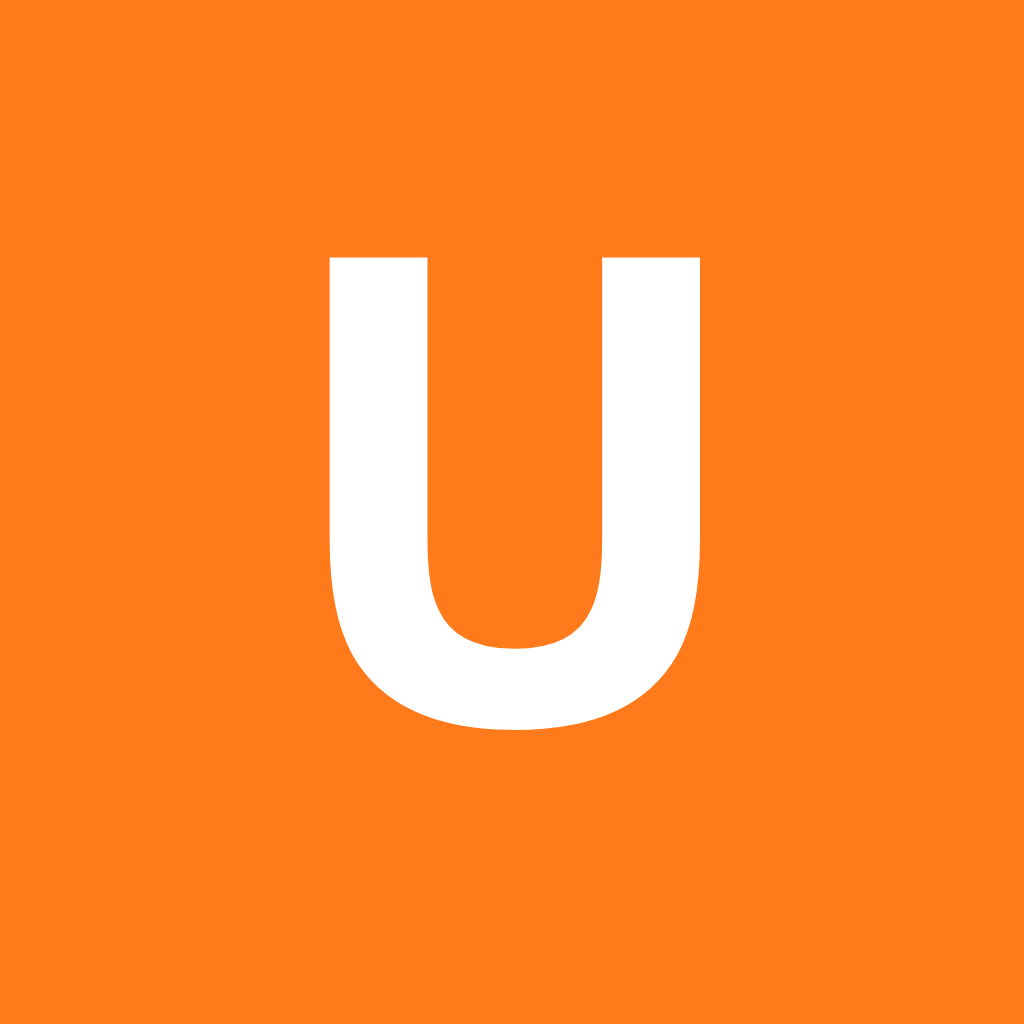
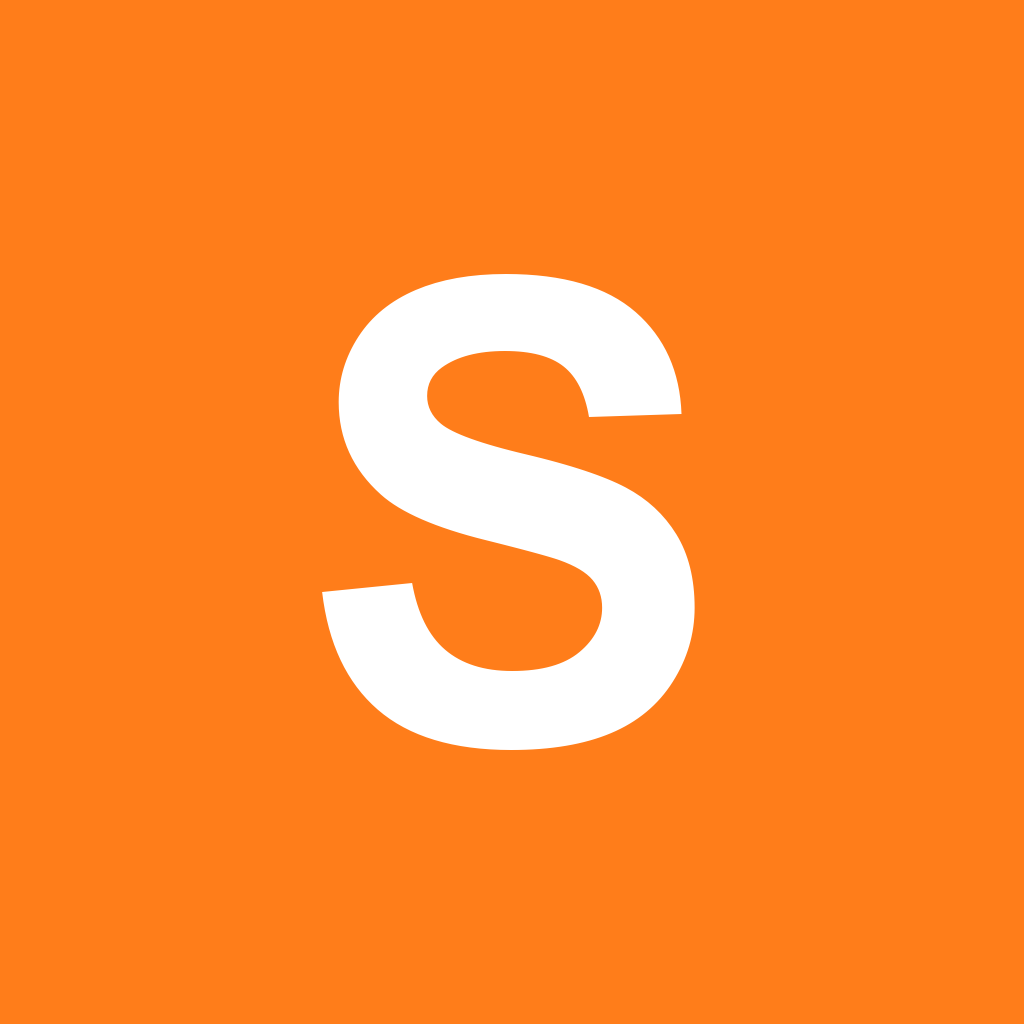
Rebrand user-facing UI to Solina CRM
Product name, page titles, login/signup, public legal pages and the
logo mark now say Solina CRM / S. Technical identifiers (X-UltraCRM-*
headers, store script global, plugin, user agents) are unchanged so
existing integrations keep working. New Meta app icon.

Changed region(s): [[0.3125, 0.25, 0.6875, 0.6875], [0.375, 0.6562, 0.6562, 0.75]]

diff --git a/src/components/crm-sync/CrmConnectionsScreen.tsx b/src/components/crm-sync/CrmConnectionsScreen.tsx
@@ -165,8 +165,8 @@ function ConnectionWizard({ conn, step, go, onChanged, dt }: { conn: Conn; step:
                 {(settings.directions.status === "out" || settings.directions.status === "both") && <div className="mt-2 space-y-1"><p className="text-xs text-muted">{t("סטטוס שלנו → ערך במערכת החיצונית (רק מה שממופה נשלח):", "Our status → external value (only mapped ones are sent):")}</p>{LOCAL_STATUSES.map(([k, l]) => <div key={k} className="flex items-center gap-2"><span className="min-w-24 text-xs">{l}</span><Input aria-label={l} value={settings.statusOutMap[k] ?? ""} onChange={(e) => { const m = { ...settings.statusOutMap }; if (e.target.value) m[k] = e.target.value; else delete m[k]; setSettings({ ...settings, statusOutMap: m }); }} className="h-8 w-48" ltr /></div>)}</div>}
               </section>
               <section><h3 className="font-semibold mb-1">{t("מקור אמת", "Source of truth")}</h3>
-                <ul className="text-xs text-muted list-disc ps-5 space-y-0.5"><li>{t("פרטי קשר ונציג מטפל: ה-CRM החיצוני.", "Contact details & handling agent: the external CRM.")}</li><li>{t("שיחות, הודעות ותוצאותיהן: UltraCRM.", "Calls, messages and their results: UltraCRM.")}</li><li>{t("סטטוסים ופולואפים: לפי המיפוי והכיוון שלמעלה.", "Statuses & follow-ups: per the mapping and direction above.")}</li><li>{t("חסימה: נאכפת כאן מיד ונשלחת החוצה; עדכון חיצוני רגיל לא מסיר אותה.", "Blocks: enforced here at once and sent out; an ordinary external update never lifts one.")}</li></ul>
-                <div className="flex flex-wrap gap-3 mt-2"><Select label={t("מי קובע שיוך", "Who decides assignment")} value={settings.ownerAuthority} onChange={(e) => setSettings({ ...settings, ownerAuthority: e.target.value as Settings["ownerAuthority"] })} className="w-56"><option value="external">{t("ה-CRM החיצוני", "The external CRM")}</option><option value="local">{t("UltraCRM", "UltraCRM")}</option></Select>
+                <ul className="text-xs text-muted list-disc ps-5 space-y-0.5"><li>{t("פרטי קשר ונציג מטפל: ה-CRM החיצוני.", "Contact details & handling agent: the external CRM.")}</li><li>{t("שיחות, הודעות ותוצאותיהן: Solina CRM.", "Calls, messages and their results: Solina CRM.")}</li><li>{t("סטטוסים ופולואפים: לפי המיפוי והכיוון שלמעלה.", "Statuses & follow-ups: per the mapping and direction above.")}</li><li>{t("חסימה: נאכפת כאן מיד ונשלחת החוצה; עדכון חיצוני רגיל לא מסיר אותה.", "Blocks: enforced here at once and sent out; an ordinary external update never lifts one.")}</li></ul>
+                <div className="flex flex-wrap gap-3 mt-2"><Select label={t("מי קובע שיוך", "Who decides assignment")} value={settings.ownerAuthority} onChange={(e) => setSettings({ ...settings, ownerAuthority: e.target.value as Settings["ownerAuthority"] })} className="w-56"><option value="external">{t("ה-CRM החיצוני", "The external CRM")}</option><option value="local">{t("Solina CRM", "Solina CRM")}</option></Select>
                   <Select label={t("רעננות נדרשת לחיוג אוטומטי", "Freshness required for auto-dialing")} value={String(settings.freshnessMinutes)} onChange={(e) => setSettings({ ...settings, freshnessMinutes: Number(e.target.value) })} className="w-56">{[15, 60, 240, 1440].map((m) => <option key={m} value={m}>{m < 60 ? t(`${m} דקות`, `${m} min`) : t(`${m / 60} שעות`, `${m / 60} h`)}</option>)}</Select>
                   <Select label={t("מחיקה במערכת החיצונית", "Deleted externally")} value={settings.deletionPolicy} onChange={(e) => setSettings({ ...settings, deletionPolicy: e.target.value as Settings["deletionPolicy"] })} className="w-64"><option value="stop_activity">{t("לבטל פעילות עתידית (ההיסטוריה נשמרת)", "Stop future activity (history kept)")}</option><option value="close_lead">{t("גם לסגור את הליד כאבוד", "Also close the lead as lost")}</option></Select></div>
               </section>

diff --git a/src/components/carts/carts-screen.tsx b/src/components/carts/carts-screen.tsx
@@ -89,7 +89,7 @@ function StoreSetup({ store, onClose, onSaved, onDeleted }: { store: Store | nul
           {store.platform === "shopify" && <div className="wz-seg"><button disabled={Boolean(store.api)} className={shopifyMode === "manual" ? "active" : ""} onClick={() => setShopifyMode("manual")}>{t("חיבור ידני דרך Shopify", "Manual Shopify setup")}</button><button className={shopifyMode === "app" ? "active" : ""} onClick={() => setShopifyMode("app")}>{t("יש לי אפליקציה מותקנת", "I have an installed app")}</button></div>}
           {store.platform === "shopify" && shopifyMode === "app" && <ApiConnect store={store} onConnected={onSaved} />}
           {store.platform === "woocommerce" && <WooConnection storeId={store.id} siteHint={store.api?.target ?? (store.domain ? `https://${store.domain}` : "")} />}
-          {store.platform === "shopify" && <p className="wz-hint">{t("בחר מסלול אחד: רישום אירועים דרך אפליקציה מותקנת, או הגדרה ידנית. המעקב במסלול זה מתחיל בקופה (Checkout), לא בגלישה אנונימית בסל לפני הקופה. לא נדרש סקריפט בתבנית. אין כרגע התקנת OAuth בלחיצה אחת של UltraCRM; היא מחייבת אפליקציית Shopify מוגדרת והרשאות הפצה. מפתח החתימה של המסלול הידני שונה מסוד האפליקציה — אין לערבב ביניהם.", "Choose one route: subscriptions through an installed app, or manual configuration. This route tracks checkouts, not anonymous pre-checkout baskets. No theme script is required. UltraCRM one-click OAuth installation is not configured; it requires a configured Shopify app and distribution permissions. Manual webhook secrets and app secrets differ; do not mix them.")}</p>}
+          {store.platform === "shopify" && <p className="wz-hint">{t("בחר מסלול אחד: רישום אירועים דרך אפליקציה מותקנת, או הגדרה ידנית. המעקב במסלול זה מתחיל בקופה (Checkout), לא בגלישה אנונימית בסל לפני הקופה. לא נדרש סקריפט בתבנית. אין כרגע התקנת OAuth בלחיצה אחת של Solina CRM; היא מחייבת אפליקציית Shopify מוגדרת והרשאות הפצה. מפתח החתימה של המסלול הידני שונה מסוד האפליקציה — אין לערבב ביניהם.", "Choose one route: subscriptions through an installed app, or manual configuration. This route tracks checkouts, not anonymous pre-checkout baskets. No theme script is required. Solina CRM one-click OAuth installation is not configured; it requires a configured Shopify app and distribution permissions. Manual webhook secrets and app secrets differ; do not mix them.")}</p>}
           {store.platform !== "shopify" && <StoreInstructions id={store.id} platform={store.platform} serverEventsUrl={store.serverEventsUrl} secret={store.webhookSecret} />}
           <ol className="carts-steps">
             {store.platform === "shopify" && shopifyMode === "manual" && !store.api && <li><strong>{t("חיבור Shopify ידני", "Manual Shopify connection")}</strong> {t("– Settings → Notifications → Webhooks → Create webhook, פורמט JSON וגרסה 2026-10, לכל אחד מהאירועים:", "– Settings → Notifications → Webhooks → Create webhook, JSON format and version 2026-10, for each of the events:")} <b>Checkout creation</b>, <b>Checkout update</b>, <b>Order payment</b>, {t("עם הכתובת:", "with the URL:")}<Code value={store.webhookUrl!} testid="store-webhook-url" />

diff --git a/src/server/services/integrations.ts b/src/server/services/integrations.ts
@@ -97,7 +97,7 @@ export async function authenticateIntegrationKey(req: Request, scope: Integratio
   if (used > RATE_LIMIT_PER_MINUTE) throw new ApiError("חריגה ממגבלת הקצב – נסו שוב בעוד דקה", 429, "rate_limited", { limit: RATE_LIMIT_PER_MINUTE, retryAfterSec: Math.max(1, 60 - Math.floor((Date.now() - new Date(rows[0].window_start).getTime()) / 1000)) });
   const conn = await db.crmConnection.findFirst({ where: { id: a.connectionId, businessId: a.business.id } });
   if (!conn) throw new ApiError("החיבור של המפתח לא נמצא", 403, "connection_missing");
-  if (conn.status === "disconnected") throw new ApiError("החיבור מנותק ב-UltraCRM – הנתונים לא נקלטים עד חיבור מחדש", 409, "connection_disconnected");
+  if (conn.status === "disconnected") throw new ApiError("החיבור מנותק ב-Solina CRM – הנתונים לא נקלטים עד חיבור מחדש", 409, "connection_disconnected");
   // Push integrations: any authenticated call is a heartbeat – "no changes lately" is not stale data (pre-dial freshness).
   if (conn.status === "active" && (!conn.lastSyncAt || Date.now() - conn.lastSyncAt.getTime() > 60_000)) await db.crmConnection.update({ where: { id: conn.id }, data: { lastSyncAt: new Date() } }).catch(() => undefined);
   return { ...a, connection: conn, rateLimit: { limit: RATE_LIMIT_PER_MINUTE, remaining: Math.max(0, RATE_LIMIT_PER_MINUTE - used) } };
@@ -200,6 +200,6 @@ export async function deliverDueWebhooks(businessId: string, deadline = Date.now
 
 /** Manual "send test" – a sample lead.created payload, sent now (not queued), result returned to the screen. */
 export async function sendTestWebhook(endpoint: WebhookEndpoint) {
-  const payload = { id: `test_${Date.now()}`, event: "test", occurredAt: new Date(), businessId: endpoint.businessId, source: "test", data: { message: "בדיקת חיבור מ-UltraCRM", contact: { id: "c_test", fullName: "ליד לדוגמה", phone: "+972501234567", email: "lead@example.com" } } };
+  const payload = { id: `test_${Date.now()}`, event: "test", occurredAt: new Date(), businessId: endpoint.businessId, source: "test", data: { message: "בדיקת חיבור מ-Solina CRM", contact: { id: "c_test", fullName: "ליד לדוגמה", phone: "+972501234567", email: "lead@example.com" } } };
   return post(endpoint, `test_${crypto.randomUUID()}`, "test", payload);
 }

diff --git a/src/server/offboarding/offboarding.ts b/src/server/offboarding/offboarding.ts
@@ -37,7 +37,7 @@ export async function offboardingOverview(user: SessionUser) {
     options: [
       { key: "cancel_subscription", title: "ביטול מנוי", what: "המנוי מסתיים בסוף התקופה ששולמה. העסק עובר למצב \"מבוטל\": אין פעולות, הנתונים נשמרים.", deleted: "לא נמחק דבר.", kept: "כל הנתונים, עד מחיקת עסק מפורשת." },
       { key: "delete_user", title: "מחיקת משתמש", what: "פרטי המשתמש האישיים נמחקים (מהגדרות ← החשבון שלי / משתמשים).", deleted: "שם, אימייל, סיסמה (כשאין לו עסק פעיל אחר).", kept: "רשומות העסק שיצר – בלי זיהוי אישי." },
-      { key: "delete_business", title: "מחיקת העסק", what: `מחיקה מתוזמנת בעוד ${BUSINESS_DELETION_DAYS} ימים, ניתנת לביטול עד אז. חיבורי WhatsApp / SMS / אימייל מנותקים והטוקנים נמחקים מיד.`, deleted: "כל נתוני העסק: אנשי קשר, לידים, שיחות, הודעות, משימות, הגדרות, משתמשים.", kept: "מסמכי חיוב ורישומי שימוש של UltraCRM – תקופת השמירה שלהם דורשת החלטת בעל המערכת (לא הוגדרה)." },
+      { key: "delete_business", title: "מחיקת העסק", what: `מחיקה מתוזמנת בעוד ${BUSINESS_DELETION_DAYS} ימים, ניתנת לביטול עד אז. חיבורי WhatsApp / SMS / אימייל מנותקים והטוקנים נמחקים מיד.`, deleted: "כל נתוני העסק: אנשי קשר, לידים, שיחות, הודעות, משימות, הגדרות, משתמשים.", kept: "מסמכי חיוב ורישומי שימוש של Solina CRM – תקופת השמירה שלהם דורשת החלטת בעל המערכת (לא הוגדרה)." },
     ],
     retentionPolicy: { businessDeletionGraceDays: BUSINESS_DELETION_DAYS, billingRecords: "דורש החלטת בעל המערכת", auditLogs: "דורש החלטת בעל המערכת", recordingsAtProvider: "לפי ספק הטלפוניה – דורש החלטה ובדיקה מולו", backups: "לפי מדיניות הגיבוי של ספק מסד הנתונים – דורש אימות" },
   };

diff --git a/src/components/access/PlatformAdmin.tsx b/src/components/access/PlatformAdmin.tsx
@@ -23,7 +23,7 @@ export function PlatformAdmin() {
     <div className="p-5 space-y-4 max-w-6xl" data-testid="platform-admin">
       <h1 className="text-lg font-semibold">{t("ניהול הפלטפורמה", "Platform administration")}</h1>
       <a href="/platform/ops" className="text-xs underline text-accent" data-testid="platform-ops-link">{t("תפעול, התראות, מחירון, התאמות ושחזור ←", "Operations, alerts, price book, reconciliation & restore →")}</a>
-      <p className="text-xs text-muted">{t("ניהול העסקים שמשתמשים ב-UltraCRM: חבילות, מצב, שימוש ובריאות חיבורים. תוכן שיחות ולקוחות אינו מוצג כאן – גישה אליו רק במצב תמיכה מפורש ומתועד.", "Managing the businesses that use UltraCRM: plans, status, usage and connection health. Conversations and customers are not shown here – only through an explicit, audited support session.")}</p>
+      <p className="text-xs text-muted">{t("ניהול העסקים שמשתמשים ב-Solina CRM: חבילות, מצב, שימוש ובריאות חיבורים. תוכן שיחות ולקוחות אינו מוצג כאן – גישה אליו רק במצב תמיכה מפורש ומתועד.", "Managing the businesses that use Solina CRM: plans, status, usage and connection health. Conversations and customers are not shown here – only through an explicit, audited support session.")}</p>
       <div className="flex gap-1 border-b border-line">{([["businesses", "עסקים", "Businesses"], ["plans", "חבילות", "Plans"], ["requests", "בקשות והיסטוריה", "Requests & history"], ["support", "תמיכה ומחיקות", "Support & deletions"]] as const).map(([k, l, en]) => <button key={k} onClick={() => setTab(k)} data-testid={`platform-tab-${k}`} className={cx("px-4 h-10 text-sm -mb-px border-b-2", tab === k ? "border-accent text-accent font-semibold" : "border-transparent text-muted")}>{t(l, en)}</button>)}</div>
       {tab === "businesses" && <Businesses />}
       {tab === "plans" && <Plans />}

diff --git a/src/app/(public)/signup/form.tsx b/src/app/(public)/signup/form.tsx
@@ -17,8 +17,8 @@ export function SignupForm() {
       <label className="block">אימייל<input className={input} type="email" dir="ltr" value={f.email} onChange={(e) => setF({ ...f, email: e.target.value })} required /></label>
       <label className="block">סיסמה (10 תווים לפחות, אותיות וספרות)<input className={input} type="password" dir="ltr" value={f.password} onChange={(e) => setF({ ...f, password: e.target.value })} required minLength={10} autoComplete="new-password" /></label>
       <fieldset className="space-y-1"><legend className="font-medium">איך תעבדו?</legend>
-        <label className="flex gap-2"><input type="radio" checked={f.path === "own_crm"} onChange={() => setF({ ...f, path: "own_crm" })} /> עם ה-CRM של UltraCRM</label>
-        <label className="flex gap-2"><input type="radio" checked={f.path === "external_crm"} onChange={() => setF({ ...f, path: "external_crm" })} /> עם ה-CRM הקיים שלנו + החייגן / WhatsApp של UltraCRM</label>
+        <label className="flex gap-2"><input type="radio" checked={f.path === "own_crm"} onChange={() => setF({ ...f, path: "own_crm" })} /> עם ה-CRM של Solina CRM</label>
+        <label className="flex gap-2"><input type="radio" checked={f.path === "external_crm"} onChange={() => setF({ ...f, path: "external_crm" })} /> עם ה-CRM הקיים שלנו + החייגן / WhatsApp של Solina CRM</label>
       </fieldset>
       <label className="flex gap-2"><input type="checkbox" checked={f.acceptTerms} onChange={(e) => setF({ ...f, acceptTerms: e.target.checked })} required /> קראתי ואני מסכים/ה ל<a className="underline" href="/terms" target="_blank">תנאי השימוש</a> ול<a className="underline" href="/privacy" target="_blank">מדיניות הפרטיות</a></label>
       {err && <p role="alert" className="text-red-700">{err}</p>}

diff --git a/src/components/onboarding/OnboardingChecklist.tsx b/src/components/onboarding/OnboardingChecklist.tsx
@@ -20,7 +20,7 @@ export function OnboardingChecklist() {
     <div className="p-4 md:p-5 max-w-2xl space-y-3" data-testid="onboarding">
       <h1 className="text-lg font-semibold">{t("הקמת העסק", "Business setup")}</h1>
       <div className="flex flex-wrap items-center gap-2 text-sm"><span>{t("מסלול:", "Path:")}</span>
-        {(["own_crm", "external_crm"] as const).map((p) => <button key={p} type="button" onClick={async () => setC(await api.put<C>("/api/onboarding", { path: p }))} className={`h-8 px-3 rounded-full border text-xs ${c.path === p ? "bg-accent text-white border-accent" : "border-line"}`}>{p === "own_crm" ? t("CRM של UltraCRM", "UltraCRM's CRM") : t("CRM חיצוני + חייגן / WhatsApp", "External CRM + dialer / WhatsApp")}</button>)}
+        {(["own_crm", "external_crm"] as const).map((p) => <button key={p} type="button" onClick={async () => setC(await api.put<C>("/api/onboarding", { path: p }))} className={`h-8 px-3 rounded-full border text-xs ${c.path === p ? "bg-accent text-white border-accent" : "border-line"}`}>{p === "own_crm" ? t("CRM של Solina CRM", "Solina's CRM") : t("CRM חיצוני + חייגן / WhatsApp", "External CRM + dialer / WhatsApp")}</button>)}
       </div>
       <Panel title={<span className="flex items-center gap-2">{t("חובה להפעלה", "Required to start")} <Badge tone={c.ready ? "good" : "warn"}>{c.requiredDone}/{c.requiredTotal}</Badge></span>}><ul className="divide-y divide-line text-sm" data-testid="onboarding-required">{c.steps.filter((s) => s.required).map((s) => <Row key={s.key} s={s} />)}</ul></Panel>
       <Panel title={t("חיבורים אופציונליים", "Optional connections")}><ul className="divide-y divide-line text-sm">{c.steps.filter((s) => !s.required).map((s) => <Row key={s.key} s={s} />)}</ul></Panel>

diff --git a/src/components/campaigns/wizard/campaign-wizard.tsx b/src/components/campaigns/wizard/campaign-wizard.tsx
@@ -133,7 +133,7 @@ export function CampaignWizard({ draftId }: { draftId: string }) {
   return (
     <div className="wz" data-testid="campaign-wizard" data-step={step}>
       <header className="wz-head">
-        <div className="wz-brand"><button type="button" className="wz-mark" onClick={() => void leaveTo("/")} aria-label={t("למסך הבית", "Home")} title={t("למסך הבית", "Home")} data-testid="wz-home">U</button><input className="wz-name" value={draft.name} onChange={(e) => patch({}, e.target.value)} aria-label={t("שם הקמפיין", "Campaign name")} data-testid="wz-name" /></div>
+        <div className="wz-brand"><button type="button" className="wz-mark" onClick={() => void leaveTo("/")} aria-label={t("למסך הבית", "Home")} title={t("למסך הבית", "Home")} data-testid="wz-home">S</button><input className="wz-name" value={draft.name} onChange={(e) => patch({}, e.target.value)} aria-label={t("שם הקמפיין", "Campaign name")} data-testid="wz-name" /></div>
         <nav className="wz-steps" aria-label={t("שלבים", "Steps")}>{steps.map((s, i) => { const done = i < idx; const bad = stepProblems(s).length > 0 && i !== idx; return <button key={s} className={`${s === step ? "active" : ""} ${bad ? "bad" : ""}`} onClick={() => go(s)} data-testid={`wz-step-${s}`}><span className="wz-num">{done ? <Check size={12} /> : i + 1}</span>{t(STEP_LABEL[s].he, STEP_LABEL[s].en)}</button>; })}</nav>
         <div className="wz-actions">
           <span className={`wz-save ${saveState}`} data-testid="wz-save-state">{saveState === "saved" ? t("נשמר", "Saved") : saveState === "saving" ? t("שומר…", "Saving…") : saveState === "dirty" ? t("שינויים לא שמורים", "Unsaved changes") : t("שגיאת שמירה", "Save error")}</span>

diff --git a/src/components/settings/PaymentSettings.tsx b/src/components/settings/PaymentSettings.tsx
@@ -38,7 +38,7 @@ export function PaymentSettings() {
             {s.provider === "payplus" && <p className="basis-full text-xs text-muted">{t("כתובת העדכונים (נשלחת ל-PayPlus אוטומטית עם כל עמוד תשלום):", "Notification URL (sent to PayPlus automatically with every payment page):")} <span dir="ltr" className="font-mono">{s.webhookUrl}</span></p>}
           </div>
         ) : <p className="text-muted">{t("לא חובר ספק סליקה – לא ניתן לגבות בשיחה.", "No payment provider – payments during calls are not available.")}</p>}
-        <p className="text-xs text-muted">{t("פרטי כרטיס אשראי לעולם אינם עוברים דרך UltraCRM: התשלום מתבצע בעמוד התשלום המאובטח של הספק (בתוך מסך השיחה או בקישור ללקוח).", "Card details never pass through UltraCRM: payment happens on the provider's secure page (inside the call screen or via a link to the customer).")}</p>
+        <p className="text-xs text-muted">{t("פרטי כרטיס אשראי לעולם אינם עוברים דרך Solina CRM: התשלום מתבצע בעמוד התשלום המאובטח של הספק (בתוך מסך השיחה או בקישור ללקוח).", "Card details never pass through Solina CRM: payment happens on the provider's secure page (inside the call screen or via a link to the customer).")}</p>
         {isOwner && (
           <div className="grid gap-2 sm:grid-cols-2">
             <Select label={t("ספק", "Provider")} value={form.provider} onChange={(e) => setForm({ ...form, provider: e.target.value as "payplus" | "sandbox", environment: "test" })} data-testid="pay-provider">

diff --git a/src/components/layout/Sidebar.tsx b/src/components/layout/Sidebar.tsx
@@ -97,7 +97,7 @@ export function Sidebar({ user, businessName, businesses, modules, planName, acc
     <aside id="app-side-nav" className={cx("app-sidebar w-[256px] shrink-0 h-screen sticky top-0 bg-panel border-e border-line flex flex-col", mobileOpen && "open")} data-testid="side-nav"
       onKeyDown={(e) => { if (e.key === "Escape") setOpenAt(null); }} onClick={(e) => { if ((e.target as HTMLElement).closest("a[href]")) setOpenAt(null); }}>
       <div className="px-5 h-[74px] flex items-center gap-3 border-b border-line">
-        <Link href="/" aria-label={t("למסך הבית", "Home")} title={t("למסך הבית", "Home")} data-testid="nav-home" className="shrink-0 w-9 h-9 rounded-lg bg-accent text-white font-extrabold text-lg inline-flex items-center justify-center hover:opacity-90">U</Link>
+        <Link href="/" aria-label={t("למסך הבית", "Home")} title={t("למסך הבית", "Home")} data-testid="nav-home" className="shrink-0 w-9 h-9 rounded-lg bg-accent text-white font-extrabold text-lg inline-flex items-center justify-center hover:opacity-90">S</Link>
         <div className="min-w-0">
           {businesses.length > 1 ? (
             <select aria-label={t("בחירת עסק", "Select business")} className="bg-transparent font-bold text-xl leading-tight truncate text-accent w-full outline-none" value={businesses.find((b) => b.active)?.id} disabled={switching} onChange={(e) => switchBusiness(e.target.value)}>

diff --git a/src/app/login/page.tsx b/src/app/login/page.tsx
@@ -34,8 +34,8 @@ function LoginForm() {
   return (
     <form onSubmit={submit} className="w-full max-w-sm bg-panel border border-line rounded-2xl p-7 space-y-4">
       <div className="text-center mb-2">
-        <div className="w-12 h-12 rounded-xl bg-accent text-white font-bold text-xl flex items-center justify-center mx-auto mb-3">U</div>
-        <h1 className="text-lg font-semibold">{t("כניסה ל-UltraCRM", "Log in to UltraCRM")}</h1><p className="text-xs text-muted mt-1">{t("CRM · דיוור · טלפוניה · WhatsApp", "CRM · Messaging · Telephony · WhatsApp")}</p>
+        <div className="w-12 h-12 rounded-xl bg-accent text-white font-bold text-xl flex items-center justify-center mx-auto mb-3">S</div>
+        <h1 className="text-lg font-semibold">{t("כניסה ל-Solina CRM", "Log in to Solina CRM")}</h1><p className="text-xs text-muted mt-1">{t("CRM · דיוור · טלפוניה · WhatsApp", "CRM · Messaging · Telephony · WhatsApp")}</p>
       </div>
       <Input label={t("אימייל", "Email")} type="email" autoComplete="username" value={email} onChange={(e) => setEmail(e.target.value)} required ltr />
       <Input label={t("סיסמה", "Password")} type="password" autoComplete="current-password" value={password} onChange={(e) => setPassword(e.target.value)} required ltr />

diff --git a/src/app/(public)/billing/sandbox/[documentId]/buttons.tsx b/src/app/(public)/billing/sandbox/[documentId]/buttons.tsx
@@ -5,7 +5,7 @@ export function SandboxBillingButtons({ documentId, t }: { documentId: string; t
   const [done, setDone] = useState<string | null>(null); const [busy, setBusy] = useState(false);
   const act = async (outcome: "approve" | "decline") => {
     setBusy(true);
-    try { const r = await fetch(`/api/billing/sandbox/${documentId}`, { method: "POST", headers: { "Content-Type": "application/json" }, body: JSON.stringify({ t, outcome }) }); setDone(r.ok ? (outcome === "approve" ? "התשלום אושר (בדיקה). אפשר לחזור ל-UltraCRM – החשבון מתעדכן אחרי אימות מול הספק." : "התשלום נדחה (בדיקה).") : "שגיאה"); }
+    try { const r = await fetch(`/api/billing/sandbox/${documentId}`, { method: "POST", headers: { "Content-Type": "application/json" }, body: JSON.stringify({ t, outcome }) }); setDone(r.ok ? (outcome === "approve" ? "התשלום אושר (בדיקה). אפשר לחזור ל-Solina CRM – החשבון מתעדכן אחרי אימות מול הספק." : "התשלום נדחה (בדיקה).") : "שגיאה"); }
     finally { setBusy(false); }
   };
   if (done) return <p className="mt-4 font-medium" data-testid="sandbox-done">{done} <a className="underline" href="/settings/billing">לחיוב ושימוש</a></p>;
